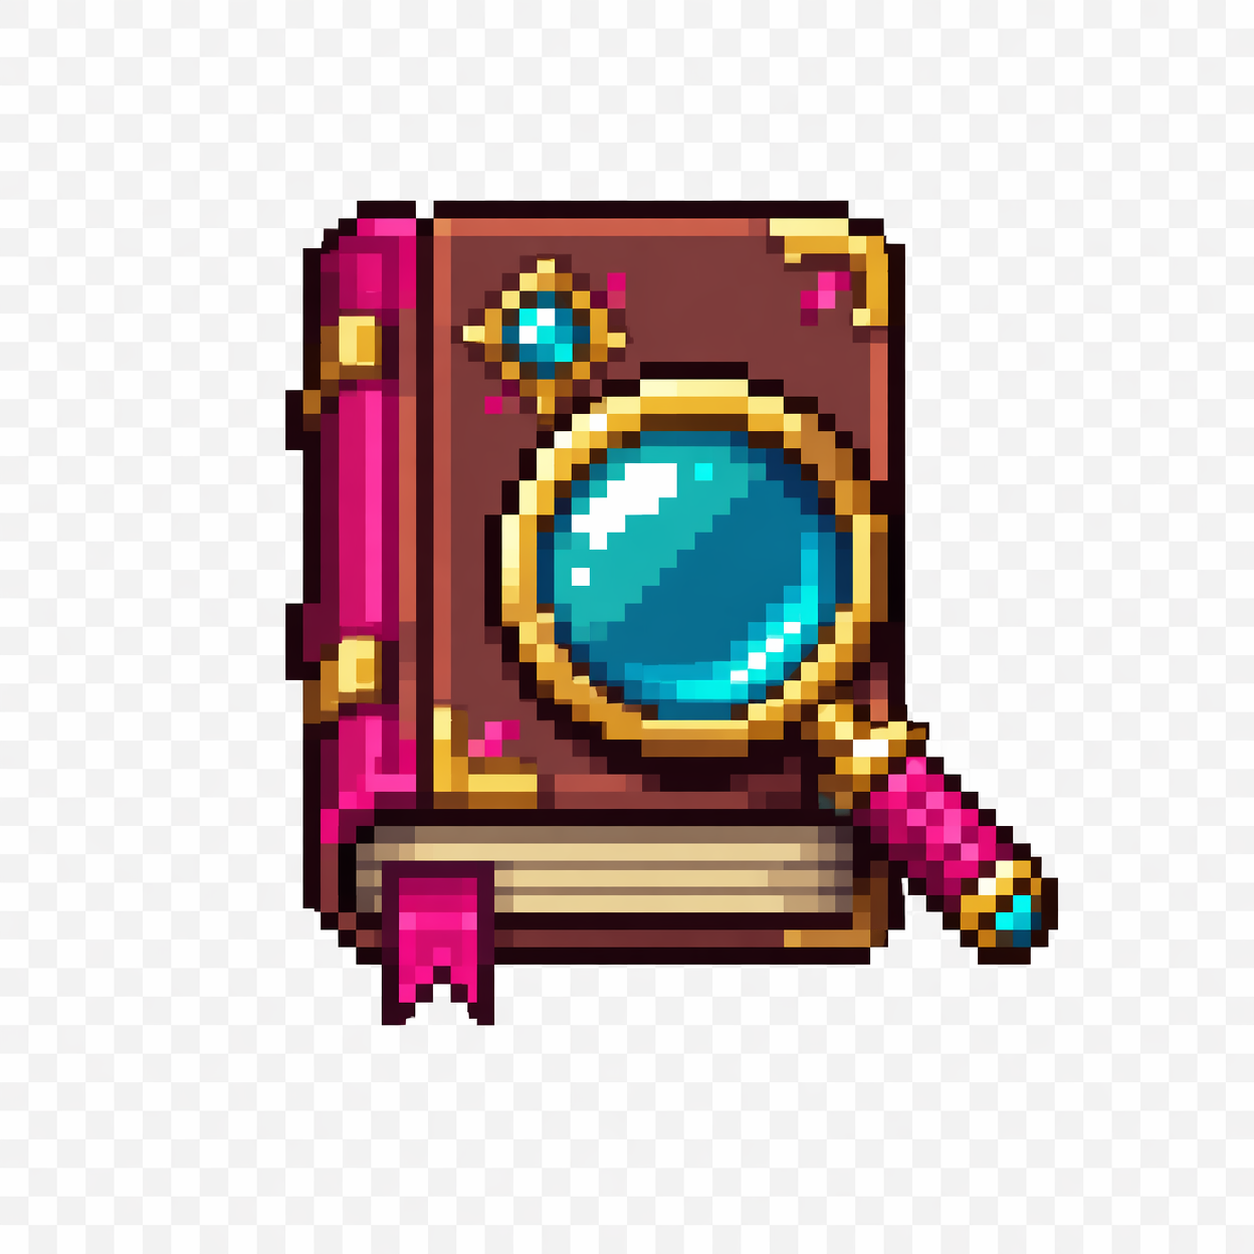
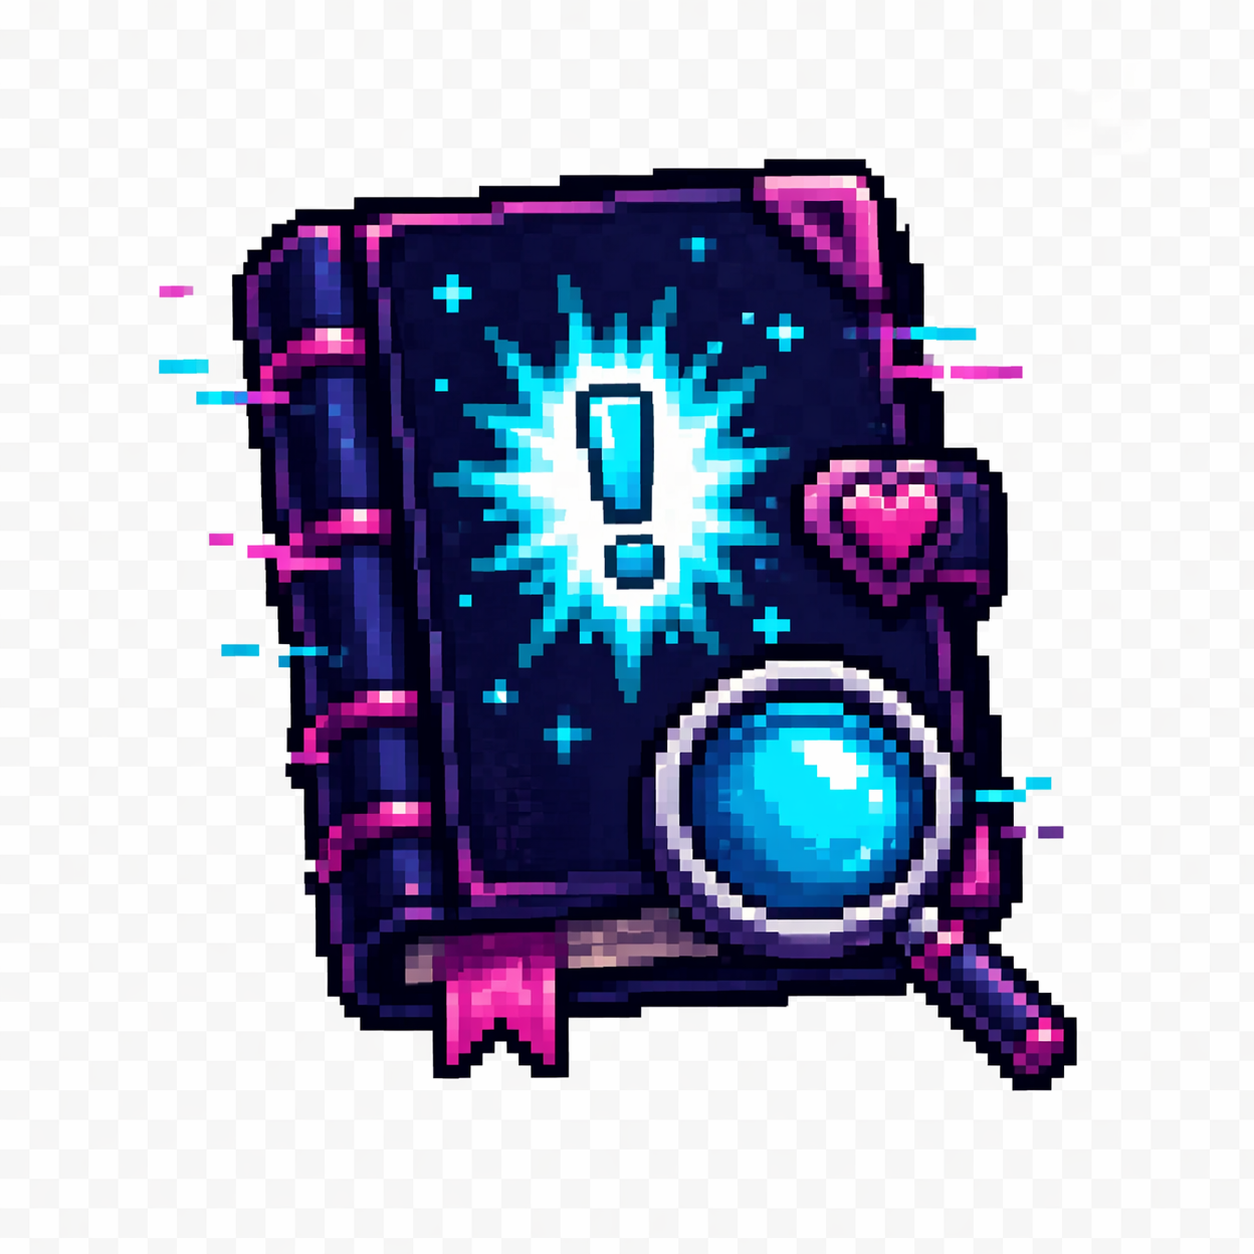
Add new visual elements and update existing ones for the UI library
Update the UI asset manifest to include 16 new and updated image assets, including new icons, overlays, and effects.

Replit-Commit-Author: Agent
Replit-Commit-Session-Id: 53a02ae2-4239-459f-8a8c-bef764526021
Replit-Commit-Checkpoint-Type: full_checkpoint
Replit-Commit-Event-Id: e14ed259-8e58-49e7-88cd-033c3b60d1bf
Replit-Commit-Screenshot-Url: https://storage.googleapis.com/screenshot-production-us-central1/01624969-a825-45c0-b591-eec4f99c2151/53a02ae2-4239-459f-8a8c-bef764526021/0t4Hhmc
Replit-Helium-Checkpoint-Created: true

diff --git a/artifacts/catfish/assets/manifest.ts b/artifacts/catfish/assets/manifest.ts
@@ -24,12 +24,22 @@
  * scene that matches their bio) and for journal location markers in
  * Pass 3. They are intentionally not wired into any screen yet.
  *
- * Brand foundation (A001-A005, A201, A303, A503-A504) bundled in this
- * pass. A001 (title card) and A200 (MATCH! stamp) are upgraded art that
- * auto-appear on the title screen and match overlay. The remaining
- * pieces — app icons (A002-A004), wordmark (A005), NOPE stamp (A201),
- * ornate portrait frame (A303), and the two-sided chat bubbles
- * (A503/A504) — await screen-level wiring in later passes.
+ * Brand foundation (A001-A005, A201, A303, A503-A504) bundled in an
+ * earlier pass. A001 (title card) and A200 (MATCH! stamp) are upgraded
+ * art that auto-appear on the title screen and match overlay. The
+ * remaining brand pieces — app icons (A002-A004), wordmark (A005),
+ * NOPE stamp (A201), ornate portrait frame (A303), and the two-sided
+ * chat bubbles (A503/A504) — await screen-level wiring in later passes.
+ *
+ * UI library expansion (A021, A103-A109, A202-A204, A304, A401, A505)
+ * bundled this pass. A300 (case journal book) and A501 (charm fire)
+ * were upgraded in place. A021 (gothic accuse-modal background with
+ * scales-of-justice motif) finally fills its long-reserved slot. The
+ * rest are FX sheets (exclamation, hearts, search flash-bang, glitch
+ * frames, scanline strips), banner overlays (purple/pink lower-thirds,
+ * silhouette flash), the square profile frame (A304), the accuse seal
+ * badge (A401), and the chat-tab icon (A505) — all sitting in the
+ * catalog awaiting Pass 2/3 screen-level wiring.
  */
 
 import { ImageSourcePropType } from "react-native";
@@ -86,18 +96,30 @@ export type AssetId =
   | "A101_fx_glitch_overlay"
   | "A102_fx_message_pop"
   | "A103_fx_unmatch_shatter"
+  | "A104_fx_exclamation_sheet"
+  | "A105_fx_heart_animation_alt"
+  | "A106_fx_hearts_three_stage"
+  | "A107_fx_search_flashbang"
+  | "A108_fx_scanline_strips"
+  | "A109_fx_glitch_frame_sheet"
   | "A200_match_overlay"
   | "A201_nope_stamp"
+  | "A202_overlay_alert_lower_third"
+  | "A203_overlay_silhouette_flash"
+  | "A204_overlay_title_lower_third"
   | "A300_journal_book"
   | "A301_search_sparkle"
   | "A302_heart_ring"
   | "A303_portrait_frame"
+  | "A304_profile_pic_frame"
   | "A400_button_red"
+  | "A401_badge_accuse_red"
   | "A500_avatar_placeholder"
   | "A501_charm_fire"
   | "A502_speech_bubble"
   | "A503_speech_bubble_outgoing"
   | "A504_speech_bubble_incoming"
+  | "A505_chat_icon"
   | "A600_bg_parking_garage_b2"
   | "A601_bg_bedroom_night"
   | "A602_bg_lounge_skyline"
@@ -113,6 +135,7 @@ const REGISTRY: Partial<Record<AssetId, ImageSourcePropType>> = {
   A003_app_icon_alt_anchor: require("./images/A003_app_icon_alt_anchor.png"),
   A004_app_icon_alt_hook: require("./images/A004_app_icon_alt_hook.png"),
   A005_wordmark_catfish: require("./images/A005_wordmark_catfish.png"),
+  A021_accuse_modal_bg: require("./images/A021_accuse_modal_bg.png"),
   A034_miles_portrait_neutral: require("./images/A034_miles_portrait_neutral.png"),
   A035_miles_portrait_smile: require("./images/A035_miles_portrait_smile.png"),
   A036_miles_portrait_flirty: require("./images/A036_miles_portrait_flirty.png"),
@@ -153,18 +176,31 @@ const REGISTRY: Partial<Record<AssetId, ImageSourcePropType>> = {
   A071_jules_fullbody_dressed_up: require("./images/A071_jules_fullbody_dressed_up.png"),
   A073_sam_fullbody_casual: require("./images/A073_sam_fullbody_casual.png"),
   A074_sam_fullbody_formal: require("./images/A074_sam_fullbody_formal.png"),
+  A103_fx_unmatch_shatter: require("./images/A103_fx_unmatch_shatter.png"),
+  A104_fx_exclamation_sheet: require("./images/A104_fx_exclamation_sheet.png"),
+  A105_fx_heart_animation_alt: require("./images/A105_fx_heart_animation_alt.png"),
+  A106_fx_hearts_three_stage: require("./images/A106_fx_hearts_three_stage.png"),
+  A107_fx_search_flashbang: require("./images/A107_fx_search_flashbang.png"),
+  A108_fx_scanline_strips: require("./images/A108_fx_scanline_strips.png"),
+  A109_fx_glitch_frame_sheet: require("./images/A109_fx_glitch_frame_sheet.png"),
   A200_match_overlay: require("./images/A200_match_overlay.png"),
   A201_nope_stamp: require("./images/A201_nope_stamp.png"),
+  A202_overlay_alert_lower_third: require("./images/A202_overlay_alert_lower_third.png"),
+  A203_overlay_silhouette_flash: require("./images/A203_overlay_silhouette_flash.png"),
+  A204_overlay_title_lower_third: require("./images/A204_overlay_title_lower_third.png"),
   A300_journal_book: require("./images/A300_journal_book.png"),
   A301_search_sparkle: require("./images/A301_search_sparkle.png"),
   A302_heart_ring: require("./images/A302_heart_ring.png"),
   A303_portrait_frame: require("./images/A303_portrait_frame.png"),
+  A304_profile_pic_frame: require("./images/A304_profile_pic_frame.png"),
   A400_button_red: require("./images/A400_button_red.png"),
+  A401_badge_accuse_red: require("./images/A401_badge_accuse_red.png"),
   A500_avatar_placeholder: require("./images/A500_avatar_placeholder.png"),
   A501_charm_fire: require("./images/A501_charm_fire.png"),
   A502_speech_bubble: require("./images/A502_speech_bubble.png"),
   A503_speech_bubble_outgoing: require("./images/A503_speech_bubble_outgoing.png"),
   A504_speech_bubble_incoming: require("./images/A504_speech_bubble_incoming.png"),
+  A505_chat_icon: require("./images/A505_chat_icon.png"),
   A600_bg_parking_garage_b2: require("./images/A600_bg_parking_garage_b2.png"),
   A601_bg_bedroom_night: require("./images/A601_bg_bedroom_night.png"),
   A602_bg_lounge_skyline: require("./images/A602_bg_lounge_skyline.png"),
